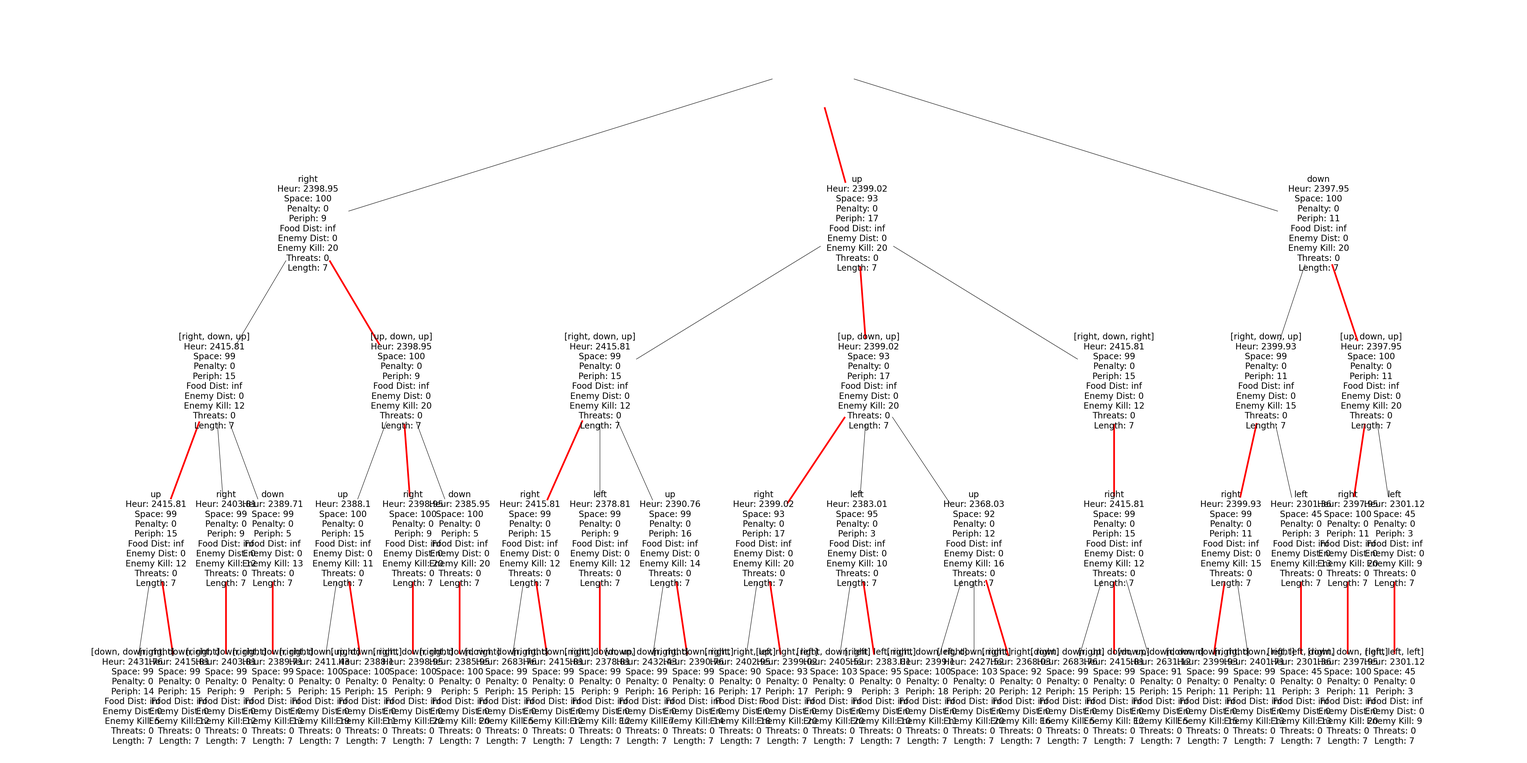
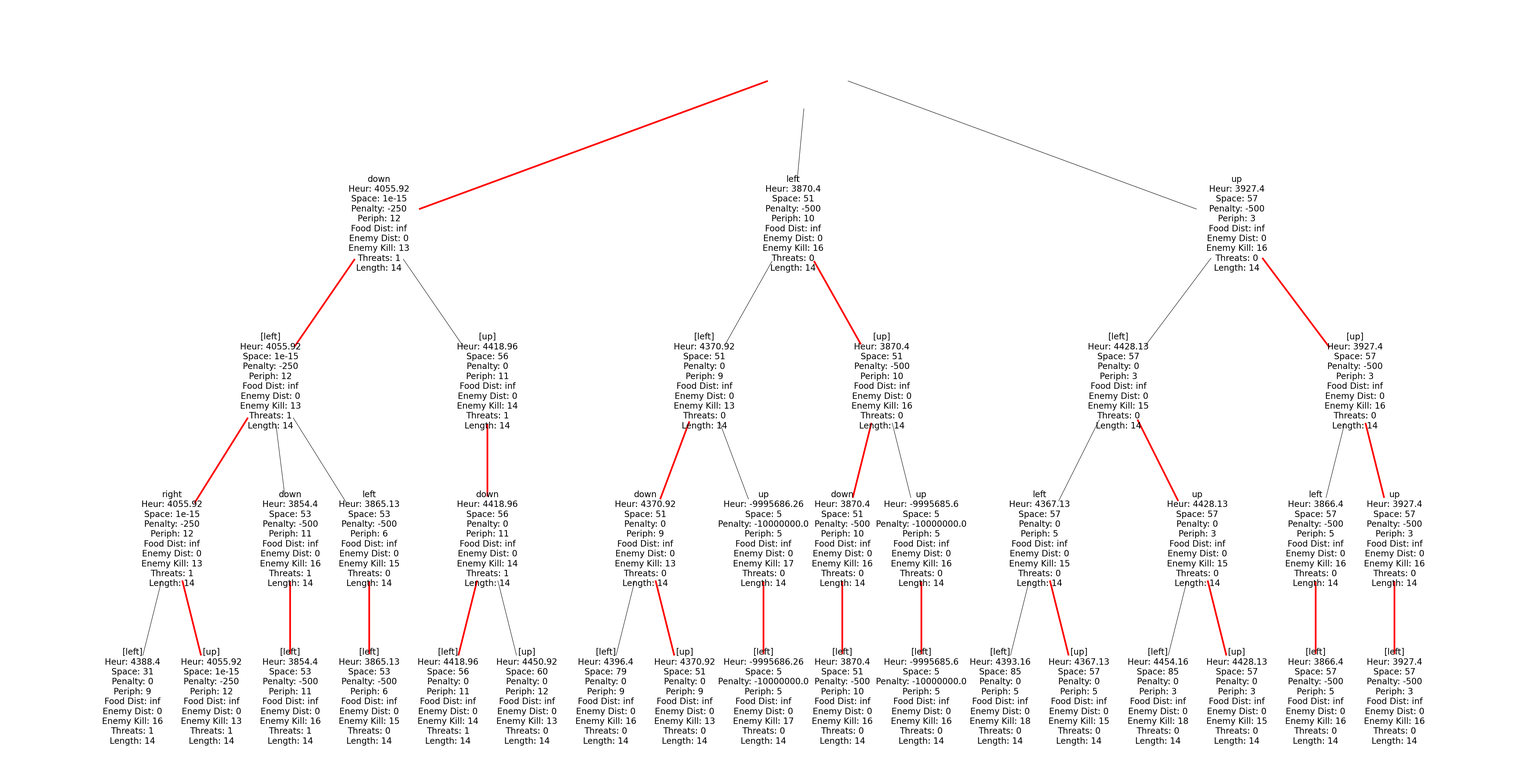
Fixed trapping edge

diff --git a/tests/test_edge_cases.py b/tests/test_edge_cases.py
@@ -62,6 +62,11 @@ def test_edge_kill():
     next_move = Battlesnake(game_state).optimal_move()
     assert next_move in ["up"]
 
+    # Horizontal edge kill
+    game_state = {'turn': 243, 'board': {'height': 11, 'width': 11, 'food': [{'x': 8, 'y': 2}, {'x': 3, 'y': 8}], 'hazards': [], 'snakes': [{'id': '8a1cf727-771b-440b-b184-7357ef44aa85', 'name': 'Nightwing', 'health': 84, 'body': [{'x': 1, 'y': 0}, {'x': 2, 'y': 0}, {'x': 3, 'y': 0}, {'x': 3, 'y': 1}, {'x': 2, 'y': 1}, {'x': 1, 'y': 1}, {'x': 1, 'y': 2}, {'x': 1, 'y': 3}, {'x': 1, 'y': 4}, {'x': 1, 'y': 5}, {'x': 1, 'y': 6}, {'x': 0, 'y': 6}, {'x': 0, 'y': 7}, {'x': 0, 'y': 8}, {'x': 0, 'y': 9}], 'head': {'x': 1, 'y': 0}, 'length': 15, 'food_eaten': None}, {'id': 'ced01f1e-7493-44a2-8816-446e83528422', 'name': 'Rick2', 'health': 95, 'body': [{'x': 7, 'y': 0}, {'x': 7, 'y': 1}, {'x': 7, 'y': 2}, {'x': 6, 'y': 2}, {'x': 6, 'y': 1}, {'x': 5, 'y': 1}, {'x': 4, 'y': 1}, {'x': 4, 'y': 2}, {'x': 3, 'y': 2}, {'x': 2, 'y': 2}, {'x': 2, 'y': 3}, {'x': 2, 'y': 4}, {'x': 2, 'y': 5}, {'x': 2, 'y': 6}, {'x': 3, 'y': 6}, {'x': 3, 'y': 5}, {'x': 3, 'y': 4}, {'x': 3, 'y': 3}, {'x': 4, 'y': 3}, {'x': 4, 'y': 4}], 'head': {'x': 7, 'y': 0}, 'length': 20, 'food_eaten': None}]}, 'you': {'id': '8a1cf727-771b-440b-b184-7357ef44aa85', 'name': 'Nightwing', 'health': 84, 'body': [{'x': 1, 'y': 0}, {'x': 2, 'y': 0}, {'x': 3, 'y': 0}, {'x': 3, 'y': 1}, {'x': 2, 'y': 1}, {'x': 1, 'y': 1}, {'x': 1, 'y': 2}, {'x': 1, 'y': 3}, {'x': 1, 'y': 4}, {'x': 1, 'y': 5}, {'x': 1, 'y': 6}, {'x': 0, 'y': 6}, {'x': 0, 'y': 7}, {'x': 0, 'y': 8}, {'x': 0, 'y': 9}], 'head': {'x': 1, 'y': 0}, 'length': 15, 'food_eaten': None}}
+    next_move = Battlesnake(game_state).optimal_move()
+    assert next_move in ["left"]
+
 
 def test_aggression():
     # Aggression
@@ -107,6 +112,9 @@ def test_aggression():
     game_state={"game":{"id":"7ff0f8c7-7d4b-49ce-9dbd-4a67dc9c5f60","ruleset":{"name":"standard","version":"cli","settings":{"foodSpawnChance":15,"minimumFood":1,"hazardDamagePerTurn":14,"hazardMap":"","hazardMapAuthor":"","royale":{"shrinkEveryNTurns":25},"squad":{"allowBodyCollisions":False,"sharedElimination":False,"sharedHealth":False,"sharedLength":False}}},"map":"standard","timeout":500,"source":""},"turn":319,"board":{"height":11,"width":11,"snakes":[{"id":"b7f14a1e-651a-44ce-8c78-471db9b2bea7","name":"Nightwing","latency":"91","health":100,"body":[{"x":5,"y":0},{"x":5,"y":1},{"x":5,"y":2},{"x":5,"y":3},{"x":5,"y":4},{"x":5,"y":5},{"x":5,"y":6},{"x":5,"y":7},{"x":5,"y":8},{"x":6,"y":8},{"x":6,"y":9},{"x":6,"y":10},{"x":7,"y":10},{"x":8,"y":10},{"x":9,"y":10},{"x":9,"y":9},{"x":9,"y":8},{"x":10,"y":8},{"x":10,"y":7},{"x":10,"y":6},{"x":10,"y":5},{"x":10,"y":4},{"x":10,"y":3},{"x":10,"y":2},{"x":10,"y":1},{"x":9,"y":1},{"x":9,"y":1}],"head":{"x":5,"y":0},"length":27,"shout":"","squad":"","customizations":{"color":"#3333ff","head":"ski","tail":"mystic-moon"}},{"id":"f934c169-4490-4306-88e2-b3ead9bc10d6","name":"Rick","latency":"109","health":82,"body":[{"x":3,"y":4},{"x":2,"y":4},{"x":1,"y":4},{"x":1,"y":5},{"x":2,"y":5},{"x":2,"y":6},{"x":3,"y":6},{"x":3,"y":7},{"x":4,"y":7},{"x":4,"y":8},{"x":3,"y":8},{"x":2,"y":8},{"x":1,"y":8},{"x":1,"y":7},{"x":1,"y":6},{"x":0,"y":6},{"x":0,"y":5},{"x":0,"y":4},{"x":0,"y":3},{"x":1,"y":3},{"x":2,"y":3}],"head":{"x":3,"y":4},"length":21,"shout":"","squad":"","customizations":{"color":"#00ff00","head":"shark","tail":"coffee"}}],"food":[{"x":1,"y":9}],"hazards":[]},"you":{"id":"4d9265e1-72cb-41b6-84e8-ac2b3c82e8d4","name":"Rick3","latency":"115","health":75,"body":[{"x":10,"y":-1},{"x":10,"y":0},{"x":9,"y":0}],"head":{"x":10,"y":-1},"length":3,"shout":"","squad":"","customizations":{"color":"#00ff00","head":"shark","tail":"coffee"}}}
     next_move = Battlesnake(game_state).optimal_move()
     assert next_move in ["left"]
+    game_state = {"game":{"id":"5f48c478-724e-4b52-9c91-5404fe8d0be8","ruleset":{"name":"standard","version":"cli","settings":{"foodSpawnChance":15,"minimumFood":1,"hazardDamagePerTurn":14,"hazardMap":"","hazardMapAuthor":"","royale":{"shrinkEveryNTurns":25},"squad":{"allowBodyCollisions":False,"sharedElimination":False,"sharedHealth":False,"sharedLength":False}}},"map":"standard","timeout":500,"source":""},"turn":306,"board":{"height":11,"width":11,"snakes":[{"id":"8a1cf727-771b-440b-b184-7357ef44aa85","name":"Nightwing","latency":"99","health":92,"body":[{"x":9,"y":7},{"x":10,"y":7},{"x":10,"y":6},{"x":10,"y":5},{"x":10,"y":4},{"x":10,"y":3},{"x":10,"y":2},{"x":10,"y":1},{"x":10,"y":0},{"x":9,"y":0},{"x":9,"y":1},{"x":8,"y":1},{"x":7,"y":1},{"x":7,"y":2},{"x":6,"y":2},{"x":6,"y":3},{"x":7,"y":3}],"head":{"x":9,"y":7},"length":17,"shout":"","squad":"","customizations":{"color":"#3333ff","head":"ski","tail":"mystic-moon"}},{"id":"ced01f1e-7493-44a2-8816-446e83528422","name":"Rick2","latency":"117","health":97,"body":[{"x":5,"y":9},{"x":5,"y":10},{"x":4,"y":10},{"x":3,"y":10},{"x":3,"y":9},{"x":3,"y":8},{"x":3,"y":7},{"x":3,"y":6},{"x":3,"y":5},{"x":3,"y":4},{"x":3,"y":3},{"x":4,"y":3},{"x":4,"y":4},{"x":4,"y":5},{"x":4,"y":6},{"x":4,"y":7},{"x":4,"y":8},{"x":5,"y":8},{"x":6,"y":8},{"x":6,"y":7},{"x":6,"y":6},{"x":6,"y":5},{"x":6,"y":4},{"x":5,"y":4},{"x":5,"y":3},{"x":5,"y":2},{"x":5,"y":1},{"x":4,"y":1},{"x":3,"y":1}],"head":{"x":5,"y":9},"length":29,"shout":"","squad":"","customizations":{"color":"#00ff00","head":"shark","tail":"coffee"}}],"food":[{"x":10,"y":9},{"x":1,"y":0}],"hazards":[]},"you":{"id":"2c1ab8d7-26d6-4e63-83e6-86ec85dd21d0","name":"JonK2","latency":"33","health":98,"body":[{"x":1,"y":3},{"x":0,"y":3},{"x":0,"y":2},{"x":1,"y":2},{"x":2,"y":2}],"head":{"x":1,"y":3},"length":5,"shout":"","squad":"","customizations":{"color":"#B7410E","head":"sleepy","tail":"offroad"}}}
+    next_move = Battlesnake(game_state).optimal_move()
+    assert next_move in ["left"]
 
 
 def test_entrapment():
@@ -121,6 +129,9 @@ def test_entrapment():
     next_move = Battlesnake(game_state).optimal_move()
     assert next_move in ["right"]  # TODO
 
+    game_state = {"game":{"id":"5f48c478-724e-4b52-9c91-5404fe8d0be8","ruleset":{"name":"standard","version":"cli","settings":{"foodSpawnChance":15,"minimumFood":1,"hazardDamagePerTurn":14,"hazardMap":"","hazardMapAuthor":"","royale":{"shrinkEveryNTurns":25},"squad":{"allowBodyCollisions":False,"sharedElimination":False,"sharedHealth":False,"sharedLength":False}}},"map":"standard","timeout":500,"source":""},"turn":226,"board":{"height":11,"width":11,"snakes":[{"id":"8a1cf727-771b-440b-b184-7357ef44aa85","name":"Nightwing","latency":"182","health":96,"body":[{"x":1,"y":7},{"x":2,"y":7},{"x":2,"y":8},{"x":2,"y":9},{"x":2,"y":10},{"x":3,"y":10},{"x":3,"y":9},{"x":4,"y":9},{"x":5,"y":9},{"x":5,"y":10},{"x":6,"y":10},{"x":7,"y":10},{"x":8,"y":10},{"x":9,"y":10}],"head":{"x":1,"y":7},"length":14,"shout":"","squad":"","customizations":{"color":"#3333ff","head":"ski","tail":"mystic-moon"}},{"id":"ced01f1e-7493-44a2-8816-446e83528422","name":"Rick2","latency":"124","health":95,"body":[{"x":4,"y":4},{"x":5,"y":4},{"x":5,"y":5},{"x":6,"y":5},{"x":6,"y":6},{"x":7,"y":6},{"x":8,"y":6},{"x":9,"y":6},{"x":9,"y":5},{"x":9,"y":4},{"x":10,"y":4},{"x":10,"y":3},{"x":9,"y":3},{"x":9,"y":2},{"x":9,"y":1},{"x":8,"y":1},{"x":7,"y":1},{"x":6,"y":1}],"head":{"x":4,"y":4},"length":18,"shout":"","squad":"","customizations":{"color":"#00ff00","head":"shark","tail":"coffee"}}],"food":[{"x":3,"y":3},{"x":8,"y":2},{"x":5,"y":1}],"hazards":[]},"you":{"id":"c71b5283-26d6-4077-ba2a-1b593564ae85","name":"Rick3","latency":"171","health":74,"body":[{"x":0,"y":6},{"x":0,"y":7},{"x":0,"y":8},{"x":0,"y":9}],"head":{"x":0,"y":6},"length":4,"shout":"","squad":"","customizations":{"color":"#00ff00","head":"shark","tail":"coffee"}}}
+    next_move = Battlesnake(game_state).optimal_move()
+    assert next_move in ["down"]
     # game_state={"game":{"id":"8b28ba61-a8f8-48ef-87ba-de779f9a60ba","ruleset":{"name":"standard","version":"cli","settings":{"foodSpawnChance":15,"minimumFood":1,"hazardDamagePerTurn":14,"hazardMap":"","hazardMapAuthor":"","royale":{"shrinkEveryNTurns":25},"squad":{"allowBodyCollisions":False,"sharedElimination":False,"sharedHealth":False,"sharedLength":False}}},"map":"standard","timeout":500,"source":""},"turn":13,"board":{"height":11,"width":11,"snakes":[{"id":"f7611ab5-0fa8-49ab-8b44-f8bed2674960","name":"Matt","latency":"47","health":96,"body":[{"x":10,"y":5},{"x":9,"y":5},{"x":9,"y":4},{"x":9,"y":3}],"head":{"x":10,"y":5},"length":4,"shout":"","squad":"","customizations":{"color":"#1f9490","head":"default","tail":"default"}},{"id":"f140c786-7d14-4540-a2f7-0be9c7663104","name":"Nightwing","latency":"65","health":89,"body":[{"x":8,"y":7},{"x":8,"y":6},{"x":7,"y":6},{"x":7,"y":5}],"head":{"x":8,"y":7},"length":4,"shout":"","squad":"","customizations":{"color":"#3333ff","head":"ski","tail":"mystic-moon"}},{"id":"f5e14a0c-6746-44b0-be7a-e24f39169dcd","name":"Rick","latency":"139","health":95,"body":[{"x":5,"y":4},{"x":5,"y":3},{"x":4,"y":3},{"x":4,"y":4}],"head":{"x":5,"y":4},"length":4,"shout":"","squad":"","customizations":{"color":"#00ff00","head":"caffeine","tail":"coffee"}},{"id":"c99a2cd1-504c-4cdd-934d-7c62c95bab9b","name":"JonK2","latency":"25","health":97,"body":[{"x":3,"y":4},{"x":3,"y":5},{"x":2,"y":5},{"x":2,"y":6},{"x":3,"y":6}],"head":{"x":3,"y":4},"length":5,"shout":"","squad":"","customizations":{"color":"#B7410E","head":"sleepy","tail":"offroad"}},{"id":"5b64a149-553a-4efa-8e7d-c34df45fae5a","name":"Rick3","latency":"145","health":89,"body":[{"x":2,"y":9},{"x":1,"y":9},{"x":1,"y":8},{"x":1,"y":7}],"head":{"x":2,"y":9},"length":4,"shout":"","squad":"","customizations":{"color":"#00ff00","head":"caffeine","tail":"coffee"}},{"id":"3082f705-6062-4161-bb98-22414c13df4a","name":"JonK","latency":"23","health":89,"body":[{"x":6,"y":9},{"x":6,"y":8},{"x":5,"y":8},{"x":5,"y":7}],"head":{"x":6,"y":9},"length":4,"shout":"","squad":"","customizations":{"color":"#B7410E","head":"sleepy","tail":"offroad"}},{"id":"734381ef-aabf-4ee5-bf53-5004d3faa262","name":"JonK3","latency":"27","health":93,"body":[{"x":7,"y":4},{"x":7,"y":3},{"x":7,"y":2},{"x":8,"y":2},{"x":8,"y":1}],"head":{"x":7,"y":4},"length":5,"shout":"","squad":"","customizations":{"color":"#B7410E","head":"sleepy","tail":"offroad"}}],"food":[{"x":7,"y":9},{"x":0,"y":4}],"hazards":[]},"you":{"id":"3082f705-6062-4161-bb98-22414c13df4a","name":"JonK","latency":"23","health":89,"body":[{"x":6,"y":9},{"x":6,"y":8},{"x":5,"y":8},{"x":5,"y":7}],"head":{"x":6,"y":9},"length":4,"shout":"","squad":"","customizations":{"color":"#B7410E","head":"sleepy","tail":"offroad"}}}
     # next_move = Battlesnake(game_state).optimal_move()
     # assert next_move in ["left"]

diff --git a/battlesnake_test.py b/battlesnake_test.py
@@ -1,6 +1,6 @@
 from snake_engine import *
 
-game_state = {"game":{"id":"bf4d28d9-e6ed-4fc2-9fda-b2d0d2ba71bb","ruleset":{"name":"standard","version":"cli","settings":{"foodSpawnChance":15,"minimumFood":1,"hazardDamagePerTurn":14,"hazardMap":"","hazardMapAuthor":"","royale":{"shrinkEveryNTurns":25},"squad":{"allowBodyCollisions":False,"sharedElimination":False,"sharedHealth":False,"sharedLength":False}}},"map":"standard","timeout":500,"source":""},"turn":0,"board":{"height":11,"width":11,"snakes":[{"id":"c78cab2a-64ea-489d-b636-b8ec252d0a54","name":"JonK3","latency":"0","health":100,"body":[{"x":9,"y":1},{"x":9,"y":1},{"x":9,"y":1}],"head":{"x":9,"y":1},"length":3,"shout":"","squad":"","customizations":{"color":"#B7410E","head":"sleepy","tail":"offroad"}},{"id":"ffa97db9-8506-4ec0-a8b0-6efd806bde02","name":"Rick4","latency":"0","health":100,"body":[{"x":9,"y":9},{"x":9,"y":9},{"x":9,"y":9}],"head":{"x":9,"y":9},"length":3,"shout":"","squad":"","customizations":{"color":"#00ff00","head":"shark","tail":"coffee"}},{"id":"7214b8d9-3cae-45e6-960d-ad301c5372b3","name":"Nightwing","latency":"0","health":100,"body":[{"x":1,"y":9},{"x":1,"y":9},{"x":1,"y":9}],"head":{"x":1,"y":9},"length":3,"shout":"","squad":"","customizations":{"color":"#3333ff","head":"ski","tail":"mystic-moon"}},{"id":"b96e70a5-1cf3-4908-9500-78bde2fcfa94","name":"Rick","latency":"0","health":100,"body":[{"x":1,"y":1},{"x":1,"y":1},{"x":1,"y":1}],"head":{"x":1,"y":1},"length":3,"shout":"","squad":"","customizations":{"color":"#00ff00","head":"shark","tail":"coffee"}},{"id":"f8968b19-e26a-4415-b5ae-4f8f414d2564","name":"JonK2","latency":"0","health":100,"body":[{"x":9,"y":5},{"x":9,"y":5},{"x":9,"y":5}],"head":{"x":9,"y":5},"length":3,"shout":"","squad":"","customizations":{"color":"#B7410E","head":"sleepy","tail":"offroad"}},{"id":"ab870d88-ba7c-4dbf-a127-6936703d28b5","name":"Rick2","latency":"0","health":100,"body":[{"x":1,"y":5},{"x":1,"y":5},{"x":1,"y":5}],"head":{"x":1,"y":5},"length":3,"shout":"","squad":"","customizations":{"color":"#00ff00","head":"shark","tail":"coffee"}},{"id":"80c3eee0-2e60-468c-994b-0f341b4f2d5a","name":"Rick3","latency":"0","health":100,"body":[{"x":5,"y":1},{"x":5,"y":1},{"x":5,"y":1}],"head":{"x":5,"y":1},"length":3,"shout":"","squad":"","customizations":{"color":"#00ff00","head":"shark","tail":"coffee"}},{"id":"7c93176b-e9f4-4be7-b265-5ef292d41378","name":"JonK","latency":"0","health":100,"body":[{"x":5,"y":9},{"x":5,"y":9},{"x":5,"y":9}],"head":{"x":5,"y":9},"length":3,"shout":"","squad":"","customizations":{"color":"#B7410E","head":"sleepy","tail":"offroad"}}],"food":[{"x":8,"y":0},{"x":8,"y":10},{"x":0,"y":8},{"x":0,"y":2},{"x":10,"y":6},{"x":0,"y":6},{"x":4,"y":0},{"x":4,"y":10},{"x":5,"y":5}],"hazards":[]},"you":{"id":"c78cab2a-64ea-489d-b636-b8ec252d0a54","name":"JonK3","latency":"0","health":100,"body":[{"x":9,"y":1},{"x":9,"y":1},{"x":9,"y":1}],"head":{"x":9,"y":1},"length":3,"shout":"","squad":"","customizations":{"color":"#B7410E","head":"sleepy","tail":"offroad"}}}
+game_state = {"game":{"id":"5f48c478-724e-4b52-9c91-5404fe8d0be8","ruleset":{"name":"standard","version":"cli","settings":{"foodSpawnChance":15,"minimumFood":1,"hazardDamagePerTurn":14,"hazardMap":"","hazardMapAuthor":"","royale":{"shrinkEveryNTurns":25},"squad":{"allowBodyCollisions":False,"sharedElimination":False,"sharedHealth":False,"sharedLength":False}}},"map":"standard","timeout":500,"source":""},"turn":0,"board":{"height":11,"width":11,"snakes":[{"id":"6214c1a1-0466-4f91-b4ac-54c272e3ed6d","name":"JonK","latency":"0","health":100,"body":[{"x":9,"y":5},{"x":9,"y":5},{"x":9,"y":5}],"head":{"x":9,"y":5},"length":3,"shout":"","squad":"","customizations":{"color":"#B7410E","head":"sleepy","tail":"offroad"}},{"id":"64b2fc68-6a13-4c08-9af9-8582c314da7b","name":"JonK3","latency":"0","health":100,"body":[{"x":5,"y":9},{"x":5,"y":9},{"x":5,"y":9}],"head":{"x":5,"y":9},"length":3,"shout":"","squad":"","customizations":{"color":"#B7410E","head":"sleepy","tail":"offroad"}},{"id":"d9dc2f49-f7fe-4925-a288-b187c9d24501","name":"Rick4","latency":"0","health":100,"body":[{"x":1,"y":5},{"x":1,"y":5},{"x":1,"y":5}],"head":{"x":1,"y":5},"length":3,"shout":"","squad":"","customizations":{"color":"#00ff00","head":"shark","tail":"coffee"}},{"id":"8a1cf727-771b-440b-b184-7357ef44aa85","name":"Nightwing","latency":"0","health":100,"body":[{"x":5,"y":1},{"x":5,"y":1},{"x":5,"y":1}],"head":{"x":5,"y":1},"length":3,"shout":"","squad":"","customizations":{"color":"#3333ff","head":"ski","tail":"mystic-moon"}},{"id":"333787af-c69a-4591-bb4a-060e867dc1e6","name":"Rick","latency":"0","health":100,"body":[{"x":1,"y":9},{"x":1,"y":9},{"x":1,"y":9}],"head":{"x":1,"y":9},"length":3,"shout":"","squad":"","customizations":{"color":"#00ff00","head":"shark","tail":"coffee"}},{"id":"2c1ab8d7-26d6-4e63-83e6-86ec85dd21d0","name":"JonK2","latency":"0","health":100,"body":[{"x":1,"y":1},{"x":1,"y":1},{"x":1,"y":1}],"head":{"x":1,"y":1},"length":3,"shout":"","squad":"","customizations":{"color":"#B7410E","head":"sleepy","tail":"offroad"}},{"id":"ced01f1e-7493-44a2-8816-446e83528422","name":"Rick2","latency":"0","health":100,"body":[{"x":9,"y":9},{"x":9,"y":9},{"x":9,"y":9}],"head":{"x":9,"y":9},"length":3,"shout":"","squad":"","customizations":{"color":"#00ff00","head":"shark","tail":"coffee"}},{"id":"c71b5283-26d6-4077-ba2a-1b593564ae85","name":"Rick3","latency":"0","health":100,"body":[{"x":9,"y":1},{"x":9,"y":1},{"x":9,"y":1}],"head":{"x":9,"y":1},"length":3,"shout":"","squad":"","customizations":{"color":"#00ff00","head":"shark","tail":"coffee"}}],"food":[{"x":10,"y":6},{"x":4,"y":10},{"x":0,"y":6},{"x":6,"y":0},{"x":0,"y":8},{"x":2,"y":0},{"x":10,"y":8},{"x":10,"y":2},{"x":5,"y":5}],"hazards":[]},"you":{"id":"2c1ab8d7-26d6-4e63-83e6-86ec85dd21d0","name":"JonK2","latency":"0","health":100,"body":[{"x":1,"y":1},{"x":1,"y":1},{"x":1,"y":1}],"head":{"x":1,"y":1},"length":3,"shout":"","squad":"","customizations":{"color":"#B7410E","head":"sleepy","tail":"offroad"}}}
 
 clock_in = time.time_ns()
 game = Battlesnake(game_state, debugging=False)

diff --git a/testing_aggression.py b/testing_aggression.py
@@ -1,9 +1,9 @@
 from snake_engine import Battlesnake
 
 
-game_state = {'turn': 30, 'board': {'height': 11, 'width': 11, 'food': [], 'hazards': [], 'snakes': [{'id': '394e7449-3aae-4d0b-a85d-30dbe14dcc11', 'name': 'Nightwing', 'health': 72, 'body': [{'x': 0, 'y': 6}, {'x': 0, 'y': 7}, {'x': 1, 'y': 7}, {'x': 1, 'y': 8}], 'head': {'x': 0, 'y': 6}, 'length': 4, 'food_eaten': None}, {'id': '5af5fbcb-1f86-422d-96ab-833ec49e660b', 'name': 'Rick4', 'health': 100, 'body': [{'x': 6, 'y': 6}, {'x': 6, 'y': 5}, {'x': 6, 'y': 4}, {'x': 5, 'y': 4}, {'x': 4, 'y': 4}, {'x': 4, 'y': 4}], 'head': {'x': 6, 'y': 6}, 'length': 6, 'food_eaten': None}, {'id': '822dfa8a-7502-4dd6-8cdc-591c8ff0b405', 'name': 'Rick', 'health': 95, 'body': [{'x': 8, 'y': 6}, {'x': 8, 'y': 7}, {'x': 8, 'y': 8}, {'x': 9, 'y': 8}, {'x': 10, 'y': 8}, {'x': 10, 'y': 7}], 'head': {'x': 8, 'y': 6}, 'length': 6, 'food_eaten': None}, {'id': '9610c627-687f-4b76-a77b-cb8536eacce1', 'name': 'JonK2', 'health': 76, 'body': [{'x': 7, 'y': 9}, {'x': 7, 'y': 10}, {'x': 8, 'y': 10}, {'x': 8, 'y': 9}, {'x': 9, 'y': 9}], 'head': {'x': 7, 'y': 9}, 'length': 5, 'food_eaten': None}, {'id': 'ed603536-f608-4398-8fb7-3ddd12867d73', 'name': 'Rick2', 'health': 91, 'body': [{'x': 0, 'y': 10}, {'x': 0, 'y': 9}, {'x': 1, 'y': 9}, {'x': 2, 'y': 9}, {'x': 2, 'y': 10}, {'x': 3, 'y': 10}], 'head': {'x': 0, 'y': 10}, 'length': 6, 'food_eaten': None}, {'id': '70f0fd83-753b-4cf4-8f4f-84f4f6679827', 'name': 'JonK', 'health': 70, 'body': [{'x': 8, 'y': 4}, {'x': 9, 'y': 4}, {'x': 9, 'y': 5}, {'x': 8, 'y': 5}], 'head': {'x': 8, 'y': 4}, 'length': 4, 'food_eaten': None}, {'id': '85720c44-c37e-4300-a85a-c222d31178cc', 'name': 'JonK3', 'health': 98, 'body': [{'x': 8, 'y': 0}, {'x': 9, 'y': 0}, {'x': 10, 'y': 0}, {'x': 10, 'y': 1}, {'x': 9, 'y': 1}, {'x': 8, 'y': 1}, {'x': 7, 'y': 1}, {'x': 7, 'y': 2}], 'head': {'x': 8, 'y': 0}, 'length': 8, 'food_eaten': None}]}, 'you': {'id': '394e7449-3aae-4d0b-a85d-30dbe14dcc11', 'name': 'Nightwing', 'health': 72, 'body': [{'x': 0, 'y': 6}, {'x': 0, 'y': 7}, {'x': 1, 'y': 7}, {'x': 1, 'y': 8}], 'head': {'x': 0, 'y': 6}, 'length': 4, 'food_eaten': None}}
+game_state = {'turn': 306, 'board': {'height': 11, 'width': 11, 'food': [{'x': 10, 'y': 9}, {'x': 1, 'y': 0}], 'hazards': [], 'snakes': [{'id': '8a1cf727-771b-440b-b184-7357ef44aa85', 'name': 'Nightwing', 'health': 90, 'body': [{'x': 7, 'y': 7}, {'x': 8, 'y': 7}, {'x': 9, 'y': 7}, {'x': 10, 'y': 7}, {'x': 10, 'y': 6}, {'x': 10, 'y': 5}, {'x': 10, 'y': 4}, {'x': 10, 'y': 3}, {'x': 10, 'y': 2}, {'x': 10, 'y': 1}, {'x': 10, 'y': 0}, {'x': 9, 'y': 0}, {'x': 9, 'y': 1}, {'x': 8, 'y': 1}, {'x': 7, 'y': 1}, {'x': 7, 'y': 2}, {'x': 6, 'y': 2}], 'head': {'x': 7, 'y': 7}, 'length': 17, 'food_eaten': None}, {'id': 'ced01f1e-7493-44a2-8816-446e83528422', 'name': 'Rick2', 'health': 95, 'body': [{'x': 7, 'y': 9}, {'x': 6, 'y': 9}, {'x': 5, 'y': 9}, {'x': 5, 'y': 10}, {'x': 4, 'y': 10}, {'x': 3, 'y': 10}, {'x': 3, 'y': 9}, {'x': 3, 'y': 8}, {'x': 3, 'y': 7}, {'x': 3, 'y': 6}, {'x': 3, 'y': 5}, {'x': 3, 'y': 4}, {'x': 3, 'y': 3}, {'x': 4, 'y': 3}, {'x': 4, 'y': 4}, {'x': 4, 'y': 5}, {'x': 4, 'y': 6}, {'x': 4, 'y': 7}, {'x': 4, 'y': 8}, {'x': 5, 'y': 8}, {'x': 6, 'y': 8}, {'x': 6, 'y': 7}, {'x': 6, 'y': 6}, {'x': 6, 'y': 5}, {'x': 6, 'y': 4}, {'x': 5, 'y': 4}, {'x': 5, 'y': 3}, {'x': 5, 'y': 2}, {'x': 5, 'y': 1}], 'head': {'x': 7, 'y': 9}, 'length': 29, 'food_eaten': None}]}, 'you': {'id': '8a1cf727-771b-440b-b184-7357ef44aa85', 'name': 'Nightwing', 'health': 90, 'body': [{'x': 7, 'y': 7}, {'x': 8, 'y': 7}, {'x': 9, 'y': 7}, {'x': 10, 'y': 7}, {'x': 10, 'y': 6}, {'x': 10, 'y': 5}, {'x': 10, 'y': 4}, {'x': 10, 'y': 3}, {'x': 10, 'y': 2}, {'x': 10, 'y': 1}, {'x': 10, 'y': 0}, {'x': 9, 'y': 0}, {'x': 9, 'y': 1}, {'x': 8, 'y': 1}, {'x': 7, 'y': 1}, {'x': 7, 'y': 2}, {'x': 6, 'y': 2}], 'head': {'x': 7, 'y': 7}, 'length': 17, 'food_eaten': None}}
 b = Battlesnake(game_state, debugging=True)
-b.heuristic(depth_number=4)
+b.heuristic(tree_depth=4)
 
 game_state = {'turn': 247, 'board': {'height': 11, 'width': 11, 'food': [{'x': 0, 'y': 5}, {'x': 10, 'y': 9}, {'x': 10, 'y': 10}, {'x': 5, 'y': 0}, {'x': 9, 'y': 8}], 'hazards': [], 'snakes': [{'id': '855756ea-d478-48ef-a45f-d86ab19f268c', 'name': 'Nightwing', 'health': 97, 'body': [{'x': 3, 'y': 8}, {'x': 3, 'y': 7}, {'x': 4, 'y': 7}, {'x': 5, 'y': 7}, {'x': 6, 'y': 7}, {'x': 6, 'y': 6}, {'x': 6, 'y': 5}, {'x': 6, 'y': 4}, {'x': 7, 'y': 4}, {'x': 7, 'y': 3}, {'x': 8, 'y': 3}, {'x': 9, 'y': 3}, {'x': 9, 'y': 4}, {'x': 9, 'y': 5}, {'x': 9, 'y': 6}, {'x': 9, 'y': 7}, {'x': 8, 'y': 7}, {'x': 8, 'y': 8}, {'x': 7, 'y': 8}, {'x': 7, 'y': 9}], 'head': {'x': 3, 'y': 8}, 'length': 20, 'food_eaten': None}, {'id': '21763327-6d6e-4028-87d8-5060b1e6fa4d', 'name': 'JonK2', 'health': 81, 'body': [{'x': 7, 'y': 2}, {'x': 7, 'y': 1}, {'x': 8, 'y': 1}, {'x': 9, 'y': 1}, {'x': 9, 'y': 0}, {'x': 8, 'y': 0}, {'x': 7, 'y': 0}, {'x': 6, 'y': 0}, {'x': 6, 'y': 1}, {'x': 6, 'y': 2}, {'x': 5, 'y': 2}, {'x': 5, 'y': 1}, {'x': 4, 'y': 1}, {'x': 3, 'y': 1}, {'x': 3, 'y': 0}, {'x': 2, 'y': 0}, {'x': 2, 'y': 1}, {'x': 1, 'y': 1}, {'x': 0, 'y': 1}, {'x': 0, 'y': 2}, {'x': 1, 'y': 2}, {'x': 2, 'y': 2}, {'x': 3, 'y': 2}], 'head': {'x': 7, 'y': 2}, 'length': 23, 'food_eaten': None}]}, 'you': {'id': '855756ea-d478-48ef-a45f-d86ab19f268c', 'name': 'Nightwing', 'health': 97, 'body': [{'x': 3, 'y': 8}, {'x': 3, 'y': 7}, {'x': 4, 'y': 7}, {'x': 5, 'y': 7}, {'x': 6, 'y': 7}, {'x': 6, 'y': 6}, {'x': 6, 'y': 5}, {'x': 6, 'y': 4}, {'x': 7, 'y': 4}, {'x': 7, 'y': 3}, {'x': 8, 'y': 3}, {'x': 9, 'y': 3}, {'x': 9, 'y': 4}, {'x': 9, 'y': 5}, {'x': 9, 'y': 6}, {'x': 9, 'y': 7}, {'x': 8, 'y': 7}, {'x': 8, 'y': 8}, {'x': 7, 'y': 8}, {'x': 7, 'y': 9}], 'head': {'x': 3, 'y': 8}, 'length': 20, 'food_eaten': None}}
 b = Battlesnake(game_state, debugging=True)

diff --git a/testing_entrapment.py b/testing_entrapment.py
@@ -55,6 +55,6 @@ from snake_engine import Battlesnake
 # b = Battlesnake(game_state, debugging=True)
 # b.heuristic(depth_number=4)
 
-game_state = {'turn': 25, 'board': {'height': 11, 'width': 11, 'food': [{'x': 7, 'y': 10}], 'hazards': [], 'snakes': [{'id': '7214b8d9-3cae-45e6-960d-ad301c5372b3', 'name': 'Nightwing', 'health': 91, 'body': [{'x': 0, 'y': 5}, {'x': 0, 'y': 4}, {'x': 1, 'y': 4}, {'x': 1, 'y': 5}, {'x': 1, 'y': 6}], 'head': {'x': 0, 'y': 5}, 'length': 5, 'food_eaten': None}, {'id': 'c78cab2a-64ea-489d-b636-b8ec252d0a54', 'name': 'JonK3', 'health': 79, 'body': [{'x': 5, 'y': 4}, {'x': 6, 'y': 4}, {'x': 7, 'y': 4}, {'x': 7, 'y': 5}, {'x': 7, 'y': 6}], 'head': {'x': 5, 'y': 4}, 'length': 5, 'food_eaten': None}, {'id': 'ffa97db9-8506-4ec0-a8b0-6efd806bde02', 'name': 'Rick4', 'health': 96, 'body': [{'x': 8, 'y': 9}, {'x': 8, 'y': 8}, {'x': 8, 'y': 7}, {'x': 7, 'y': 7}, {'x': 6, 'y': 7}, {'x': 6, 'y': 8}, {'x': 6, 'y': 9}], 'head': {'x': 8, 'y': 9}, 'length': 7, 'food_eaten': None}, {'id': 'b96e70a5-1cf3-4908-9500-78bde2fcfa94', 'name': 'Rick', 'health': 89, 'body': [{'x': 2, 'y': 5}, {'x': 3, 'y': 5}, {'x': 3, 'y': 6}, {'x': 3, 'y': 7}, {'x': 4, 'y': 7}], 'head': {'x': 2, 'y': 5}, 'length': 5, 'food_eaten': None}, {'id': 'f8968b19-e26a-4415-b5ae-4f8f414d2564', 'name': 'JonK2', 'health': 86, 'body': [{'x': 10, 'y': 9}, {'x': 10, 'y': 8}, {'x': 10, 'y': 7}, {'x': 10, 'y': 6}, {'x': 9, 'y': 6}], 'head': {'x': 10, 'y': 9}, 'length': 5, 'food_eaten': None}, {'id': '7c93176b-e9f4-4be7-b265-5ef292d41378', 'name': 'JonK', 'health': 98, 'body': [{'x': 0, 'y': 3}, {'x': 1, 'y': 3}, {'x': 2, 'y': 3}, {'x': 2, 'y': 2}, {'x': 2, 'y': 1}, {'x': 2, 'y': 0}, {'x': 1, 'y': 0}], 'head': {'x': 0, 'y': 3}, 'length': 7, 'food_eaten': None}]}, 'you': {'id': '7214b8d9-3cae-45e6-960d-ad301c5372b3', 'name': 'Nightwing', 'health': 91, 'body': [{'x': 0, 'y': 5}, {'x': 0, 'y': 4}, {'x': 1, 'y': 4}, {'x': 1, 'y': 5}, {'x': 1, 'y': 6}], 'head': {'x': 0, 'y': 5}, 'length': 5, 'food_eaten': None}}
+game_state = {'turn': 319, 'board': {'height': 11, 'width': 11, 'food': [{'x': 1, 'y': 9}], 'hazards': [], 'snakes': [{'id': 'b7f14a1e-651a-44ce-8c78-471db9b2bea7', 'name': 'Nightwing', 'health': 98, 'body': [{'x': 4, 'y': 1}, {'x': 4, 'y': 0}, {'x': 5, 'y': 0}, {'x': 5, 'y': 1}, {'x': 5, 'y': 2}, {'x': 5, 'y': 3}, {'x': 5, 'y': 4}, {'x': 5, 'y': 5}, {'x': 5, 'y': 6}, {'x': 5, 'y': 7}, {'x': 5, 'y': 8}, {'x': 6, 'y': 8}, {'x': 6, 'y': 9}, {'x': 6, 'y': 10}, {'x': 7, 'y': 10}, {'x': 8, 'y': 10}, {'x': 9, 'y': 10}, {'x': 9, 'y': 9}, {'x': 9, 'y': 8}, {'x': 10, 'y': 8}, {'x': 10, 'y': 7}, {'x': 10, 'y': 6}, {'x': 10, 'y': 5}, {'x': 10, 'y': 4}, {'x': 10, 'y': 3}, {'x': 10, 'y': 2}, {'x': 10, 'y': 1}], 'head': {'x': 4, 'y': 1}, 'length': 27, 'food_eaten': None}, {'id': 'f934c169-4490-4306-88e2-b3ead9bc10d6', 'name': 'Rick', 'health': 80, 'body': [{'x': 3, 'y': 2}, {'x': 3, 'y': 3}, {'x': 3, 'y': 4}, {'x': 2, 'y': 4}, {'x': 1, 'y': 4}, {'x': 1, 'y': 5}, {'x': 2, 'y': 5}, {'x': 2, 'y': 6}, {'x': 3, 'y': 6}, {'x': 3, 'y': 7}, {'x': 4, 'y': 7}, {'x': 4, 'y': 8}, {'x': 3, 'y': 8}, {'x': 2, 'y': 8}, {'x': 1, 'y': 8}, {'x': 1, 'y': 7}, {'x': 1, 'y': 6}, {'x': 0, 'y': 6}, {'x': 0, 'y': 5}, {'x': 0, 'y': 4}, {'x': 0, 'y': 3}], 'head': {'x': 3, 'y': 2}, 'length': 21, 'food_eaten': None}]}, 'you': {'id': 'b7f14a1e-651a-44ce-8c78-471db9b2bea7', 'name': 'Nightwing', 'health': 98, 'body': [{'x': 4, 'y': 1}, {'x': 4, 'y': 0}, {'x': 5, 'y': 0}, {'x': 5, 'y': 1}, {'x': 5, 'y': 2}, {'x': 5, 'y': 3}, {'x': 5, 'y': 4}, {'x': 5, 'y': 5}, {'x': 5, 'y': 6}, {'x': 5, 'y': 7}, {'x': 5, 'y': 8}, {'x': 6, 'y': 8}, {'x': 6, 'y': 9}, {'x': 6, 'y': 10}, {'x': 7, 'y': 10}, {'x': 8, 'y': 10}, {'x': 9, 'y': 10}, {'x': 9, 'y': 9}, {'x': 9, 'y': 8}, {'x': 10, 'y': 8}, {'x': 10, 'y': 7}, {'x': 10, 'y': 6}, {'x': 10, 'y': 5}, {'x': 10, 'y': 4}, {'x': 10, 'y': 3}, {'x': 10, 'y': 2}, {'x': 10, 'y': 1}], 'head': {'x': 4, 'y': 1}, 'length': 27, 'food_eaten': None}}
 b = Battlesnake(game_state, debugging=True)
 b.heuristic(tree_depth=4)

diff --git a/debugging.py b/debugging.py
@@ -1,7 +1,7 @@
 from snake_engine import Battlesnake
 import time
 
-game_state = {"game":{"id":"bf4d28d9-e6ed-4fc2-9fda-b2d0d2ba71bb","ruleset":{"name":"standard","version":"cli","settings":{"foodSpawnChance":15,"minimumFood":1,"hazardDamagePerTurn":14,"hazardMap":"","hazardMapAuthor":"","royale":{"shrinkEveryNTurns":25},"squad":{"allowBodyCollisions":False,"sharedElimination":False,"sharedHealth":False,"sharedLength":False}}},"map":"standard","timeout":500,"source":""},"turn":40,"board":{"height":11,"width":11,"snakes":[{"id":"ffa97db9-8506-4ec0-a8b0-6efd806bde02","name":"Rick4","latency":"141","health":91,"body":[{"x":6,"y":8},{"x":6,"y":9},{"x":5,"y":9},{"x":4,"y":9},{"x":3,"y":9},{"x":3,"y":10},{"x":4,"y":10},{"x":5,"y":10}],"head":{"x":6,"y":8},"length":8,"shout":"","squad":"","customizations":{"color":"#00ff00","head":"shark","tail":"coffee"}},{"id":"7214b8d9-3cae-45e6-960d-ad301c5372b3","name":"Nightwing","latency":"169","health":99,"body":[{"x":7,"y":1},{"x":6,"y":1},{"x":5,"y":1},{"x":5,"y":2},{"x":4,"y":2},{"x":3,"y":2},{"x":2,"y":2}],"head":{"x":7,"y":1},"length":7,"shout":"","squad":"","customizations":{"color":"#3333ff","head":"ski","tail":"mystic-moon"}},{"id":"80c3eee0-2e60-468c-994b-0f341b4f2d5a","name":"Rick3","latency":"154","health":66,"body":[{"x":7,"y":5},{"x":7,"y":4},{"x":7,"y":3},{"x":6,"y":3}],"head":{"x":7,"y":5},"length":4,"shout":"","squad":"","customizations":{"color":"#00ff00","head":"shark","tail":"coffee"}},{"id":"7c93176b-e9f4-4be7-b265-5ef292d41378","name":"JonK","latency":"24","health":85,"body":[{"x":5,"y":5},{"x":5,"y":4},{"x":5,"y":3},{"x":4,"y":3},{"x":3,"y":3},{"x":3,"y":4},{"x":3,"y":5}],"head":{"x":5,"y":5},"length":7,"shout":"","squad":"","customizations":{"color":"#B7410E","head":"sleepy","tail":"offroad"}}],"food":[{"x":6,"y":6}],"hazards":[]},"you":{"id":"b96e70a5-1cf3-4908-9500-78bde2fcfa94","name":"Rick","latency":"173","health":86,"body":[{"x":6,"y":6},{"x":6,"y":5},{"x":5,"y":5},{"x":4,"y":5},{"x":3,"y":5}],"head":{"x":6,"y":6},"length":5,"shout":"","squad":"","customizations":{"color":"#00ff00","head":"shark","tail":"coffee"}}}
+game_state = {"game":{"id":"5f48c478-724e-4b52-9c91-5404fe8d0be8","ruleset":{"name":"standard","version":"cli","settings":{"foodSpawnChance":15,"minimumFood":1,"hazardDamagePerTurn":14,"hazardMap":"","hazardMapAuthor":"","royale":{"shrinkEveryNTurns":25},"squad":{"allowBodyCollisions":False,"sharedElimination":False,"sharedHealth":False,"sharedLength":False}}},"map":"standard","timeout":500,"source":""},"turn":226,"board":{"height":11,"width":11,"snakes":[{"id":"8a1cf727-771b-440b-b184-7357ef44aa85","name":"Nightwing","latency":"182","health":96,"body":[{"x":1,"y":7},{"x":2,"y":7},{"x":2,"y":8},{"x":2,"y":9},{"x":2,"y":10},{"x":3,"y":10},{"x":3,"y":9},{"x":4,"y":9},{"x":5,"y":9},{"x":5,"y":10},{"x":6,"y":10},{"x":7,"y":10},{"x":8,"y":10},{"x":9,"y":10}],"head":{"x":1,"y":7},"length":14,"shout":"","squad":"","customizations":{"color":"#3333ff","head":"ski","tail":"mystic-moon"}},{"id":"ced01f1e-7493-44a2-8816-446e83528422","name":"Rick2","latency":"124","health":95,"body":[{"x":4,"y":4},{"x":5,"y":4},{"x":5,"y":5},{"x":6,"y":5},{"x":6,"y":6},{"x":7,"y":6},{"x":8,"y":6},{"x":9,"y":6},{"x":9,"y":5},{"x":9,"y":4},{"x":10,"y":4},{"x":10,"y":3},{"x":9,"y":3},{"x":9,"y":2},{"x":9,"y":1},{"x":8,"y":1},{"x":7,"y":1},{"x":6,"y":1}],"head":{"x":4,"y":4},"length":18,"shout":"","squad":"","customizations":{"color":"#00ff00","head":"shark","tail":"coffee"}}],"food":[{"x":3,"y":3},{"x":8,"y":2},{"x":5,"y":1}],"hazards":[]},"you":{"id":"c71b5283-26d6-4077-ba2a-1b593564ae85","name":"Rick3","latency":"171","health":74,"body":[{"x":0,"y":6},{"x":0,"y":7},{"x":0,"y":8},{"x":0,"y":9}],"head":{"x":0,"y":6},"length":4,"shout":"","squad":"","customizations":{"color":"#00ff00","head":"shark","tail":"coffee"}}}
 
 b = Battlesnake(game_state, debugging=True)
 clock_in = time.time_ns()

diff --git a/snake_engine.py b/snake_engine.py
@@ -295,14 +295,21 @@ class Battlesnake:
                 # Off-limits if it's outside the board
                 if bounds[0] <= esc_attempt < bounds[1]:
                     # Look at the space in the column/row ahead of us
-                    strip = board[esc_attempt, getattr(snake.head, ax_dir):] if scan_dir == +1 \
-                        else board[esc_attempt, :(getattr(snake.head, ax_dir) + 1)][::-1]
+                    if ax == "x":
+                        strip = board[esc_attempt, getattr(snake.head, ax_dir):] if scan_dir == +1 \
+                            else board[esc_attempt, :(getattr(snake.head, ax_dir) + 1)][::-1]
+                    else:
+                        strip = board[getattr(snake.head, ax_dir):, esc_attempt] if scan_dir == +1 \
+                            else board[:(getattr(snake.head, ax_dir) + 1), esc_attempt][::-1]
                     # If there's an opponent head in front of us, we might be getting edge-killed
                     if "H" in strip:
                         # Focus on the portion preceded by an opponent head to determine if we're being edge-killed
                         danger_strip = strip[:np.where(strip == "H")[0][0]]
                         # Identify the possible killer
-                        opp_loc = Pos(esc_attempt, getattr(snake.head.moved_to(direction, len(danger_strip)), ax_dir))
+                        if ax == "x":
+                            opp_loc = Pos(esc_attempt, getattr(snake.head.moved_to(direction, len(danger_strip)), ax_dir))
+                        else:
+                            opp_loc = Pos(getattr(snake.head.moved_to(direction, len(danger_strip)), ax_dir), esc_attempt)
                         opp_killer = self.board.identify_snake(opp_loc)
                         # Check if the opponent is bound to turn around and collide with us
                         opp_next_dirs = self.get_obvious_moves(opp_killer.id, risk_averse=False)
@@ -456,7 +463,7 @@ class Battlesnake:
             available_enemy_space = self.board.flood_fill(closest_enemy, risk_averse=True, confined_area=confined_area)
             available_enemy_space_full = self.board.flood_fill(closest_enemy, risk_averse=True)
 
-            if peripheral > available_enemy_space:
+            if peripheral > available_enemy_space or space_all > available_enemy_space_full:
                 if available_enemy_space_full <= 5:
                     kill_bonus = 2000
                 elif available_enemy_space < 4:
@@ -531,6 +538,13 @@ class Battlesnake:
                 cutoff_bonus = 0
         else:
             cutoff_bonus = 0
+
+        # Can we get cut off?
+        if len(self.opponents) == 1 and self.you.length < closest_opp.length:
+            opp_cutoff = self.board.flood_fill(self.you.id, cutoff=closest_opp.id)
+            if opp_cutoff <= 15:
+                if space_penalty == 0:
+                    space_penalty = -500
 
         # Determine the closest safe distance to food
         dist_food, best_food = self.board.dist_to_nearest_food(self.you.id)
